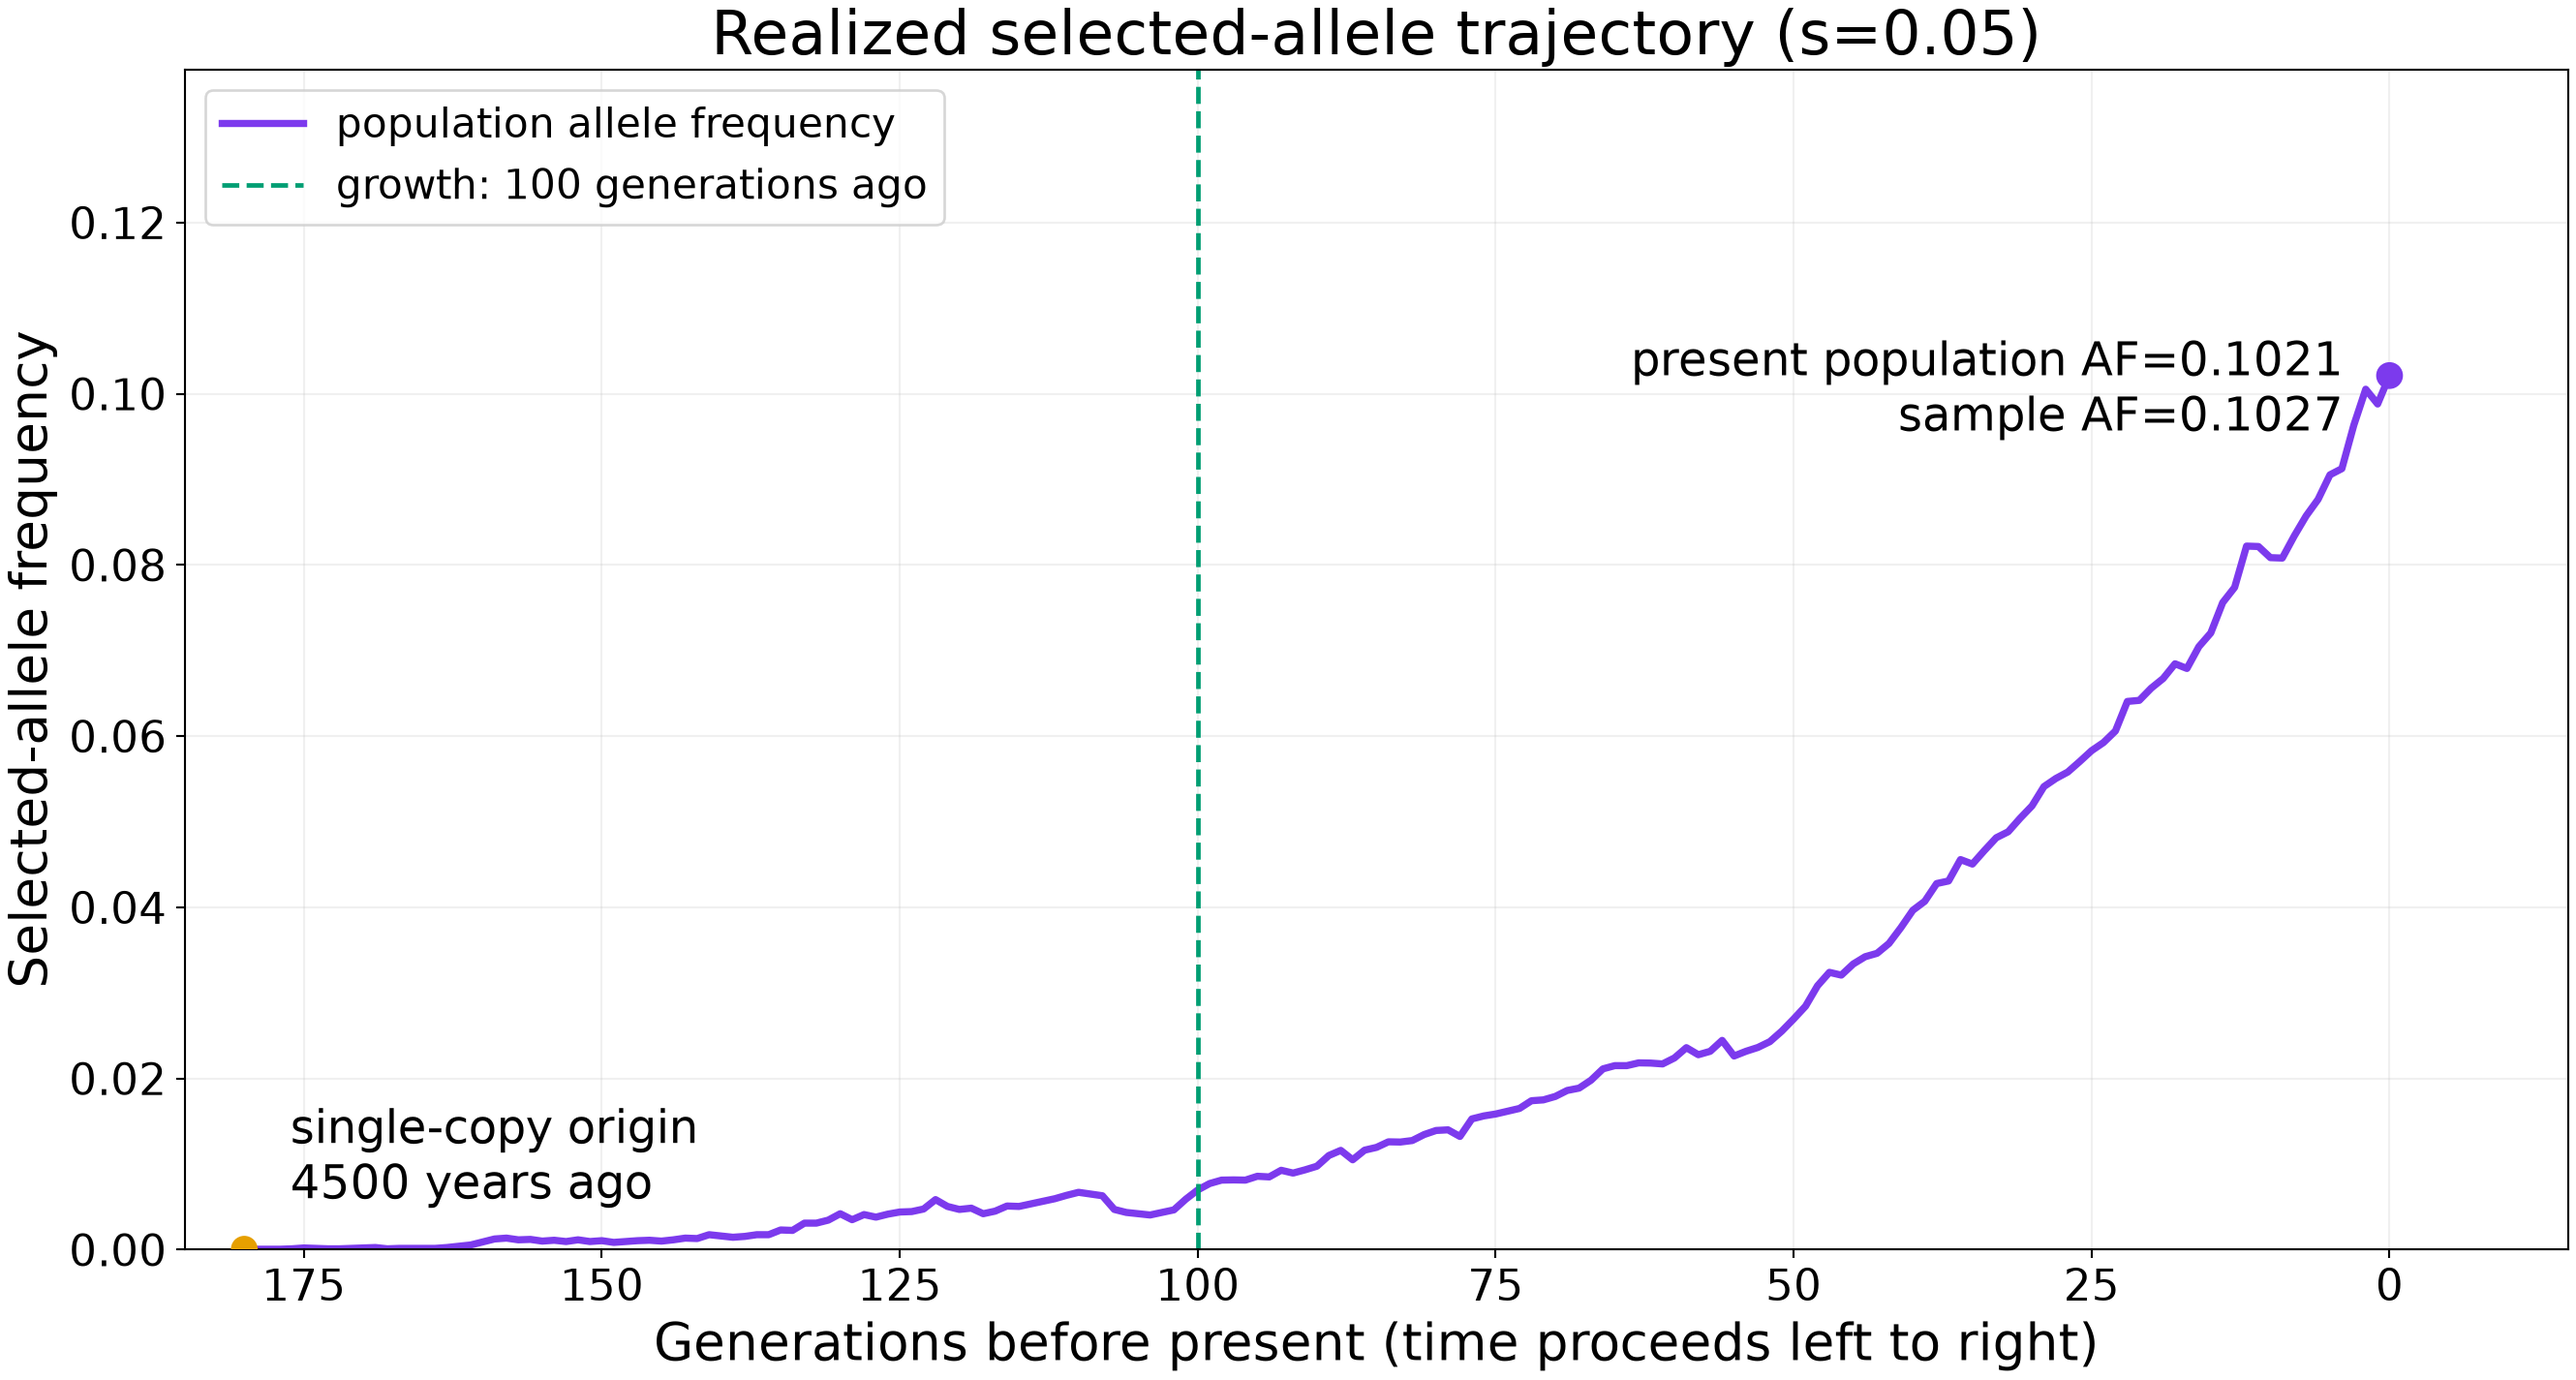
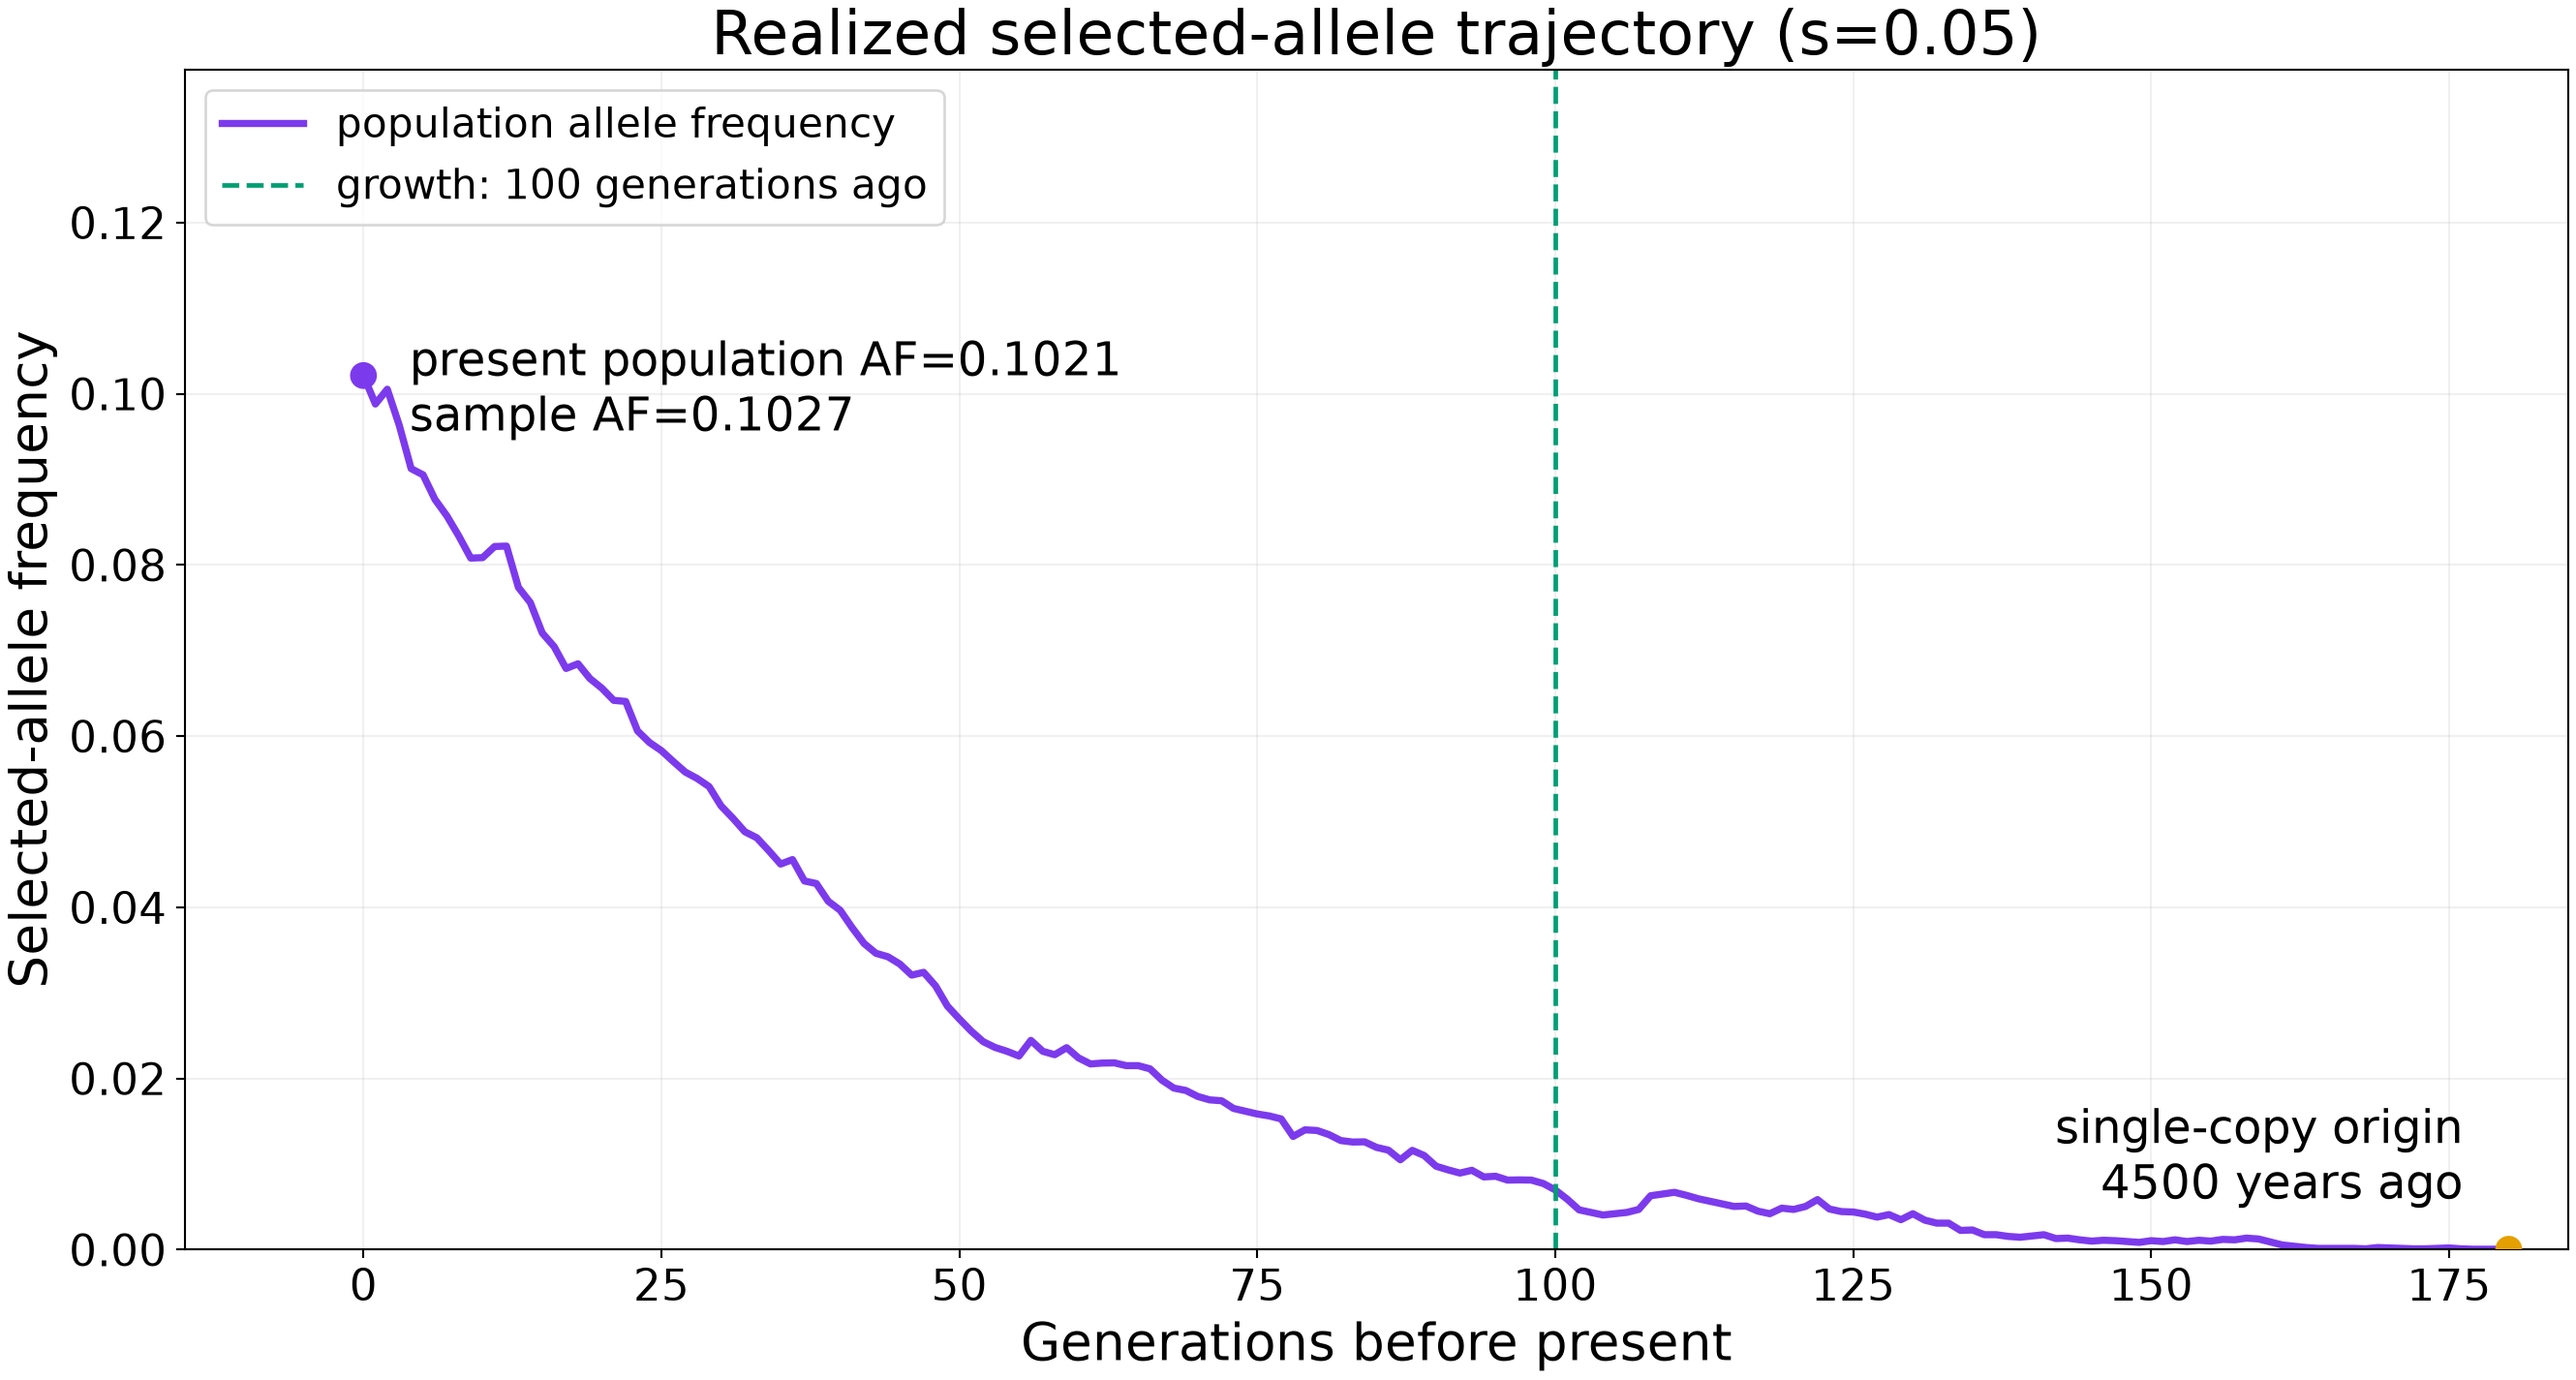
Orient allele trajectory with present on left

diff --git a/python/gamma_smc_aou/two_epoch.py b/python/gamma_smc_aou/two_epoch.py
@@ -250,29 +250,29 @@ def _plot_allele_frequency_trajectory(
             variant_age_generations,
             ordered.iloc[0]["population_allele_frequency"],
         ),
-        xytext=(18, 20),
+        xytext=(-18, 20),
         textcoords="offset points",
-        ha="left",
+        ha="right",
         fontsize=LARGE_FONTS["annotation"],
     )
     axis.annotate(
         f"present population AF={population_allele_frequency:.4f}\n"
         f"sample AF={sample_allele_frequency:.4f}",
         (0, population_allele_frequency),
-        xytext=(-18, -6),
+        xytext=(18, -6),
         textcoords="offset points",
-        ha="right",
+        ha="left",
         va="center",
         fontsize=LARGE_FONTS["annotation"],
     )
-    axis.set_xlim(variant_age_generations + 5, -15)
+    axis.set_xlim(-15, variant_age_generations + 5)
     axis.set_ylim(0, max(0.12, population_allele_frequency * 1.35))
     axis.set_title(
         f"Realized selected-allele trajectory (s={selection_coefficient:g})",
         fontsize=LARGE_FONTS["title"],
     )
     axis.set_xlabel(
-        "Generations before present (time proceeds left to right)",
+        "Generations before present",
         fontsize=LARGE_FONTS["axis"],
     )
     axis.set_ylabel("Selected-allele frequency", fontsize=LARGE_FONTS["axis"])
